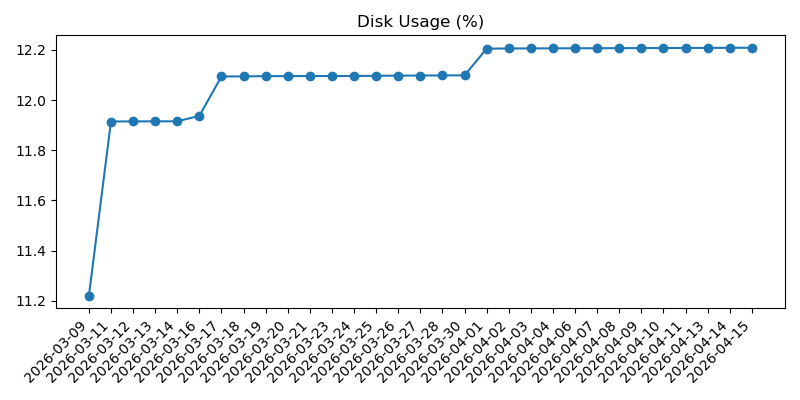
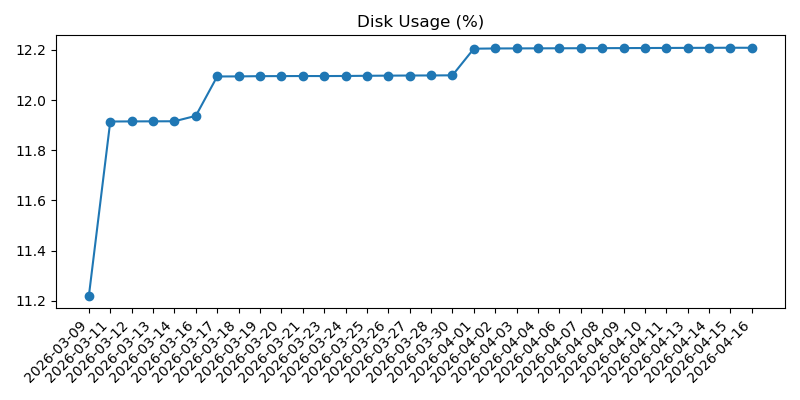
Record daily machine check

diff --git a/2026-04.md b/2026-04.md
@@ -442,3 +442,37 @@
 - Overall: Good
 - Warning: None
 
+## 2026-04-16 15:58:16
+
+### Machine
+- Uptime: up 2 weeks, 2 days, 1 hour, 54 minutes
+- CPU load (1m, 5m, 15m): 0.01, 0.01, 0.00
+- RAM used: 165 MB / 921 MB (17.9%)
+- Disk used (/): 3.5 GB / 28.8 GB (12.2%)
+- Free disk space (/): 24.1 GB
+- CPU temp: 38.6°C
+- Voltage / throttling: OK
+
+### Reachability
+- Internet check (1.1.1.1): Reachable (4.0 ms)
+
+### Weather
+- Madrid:
+  - Condition: Poco nuboso
+  - Max temp: 25°C
+  - Min temp: 10°C
+  - Feels like: 18°C
+  - Chance of rain: 0%
+  - Warnings: None reported
+- Barcelona:
+  - Condition: Poco nuboso
+  - Max temp: 22°C
+  - Min temp: 13°C
+  - Feels like: 17°C
+  - Chance of rain: 0%
+  - Warnings: None reported
+
+### Health
+- Overall: Good
+- Warning: None
+
